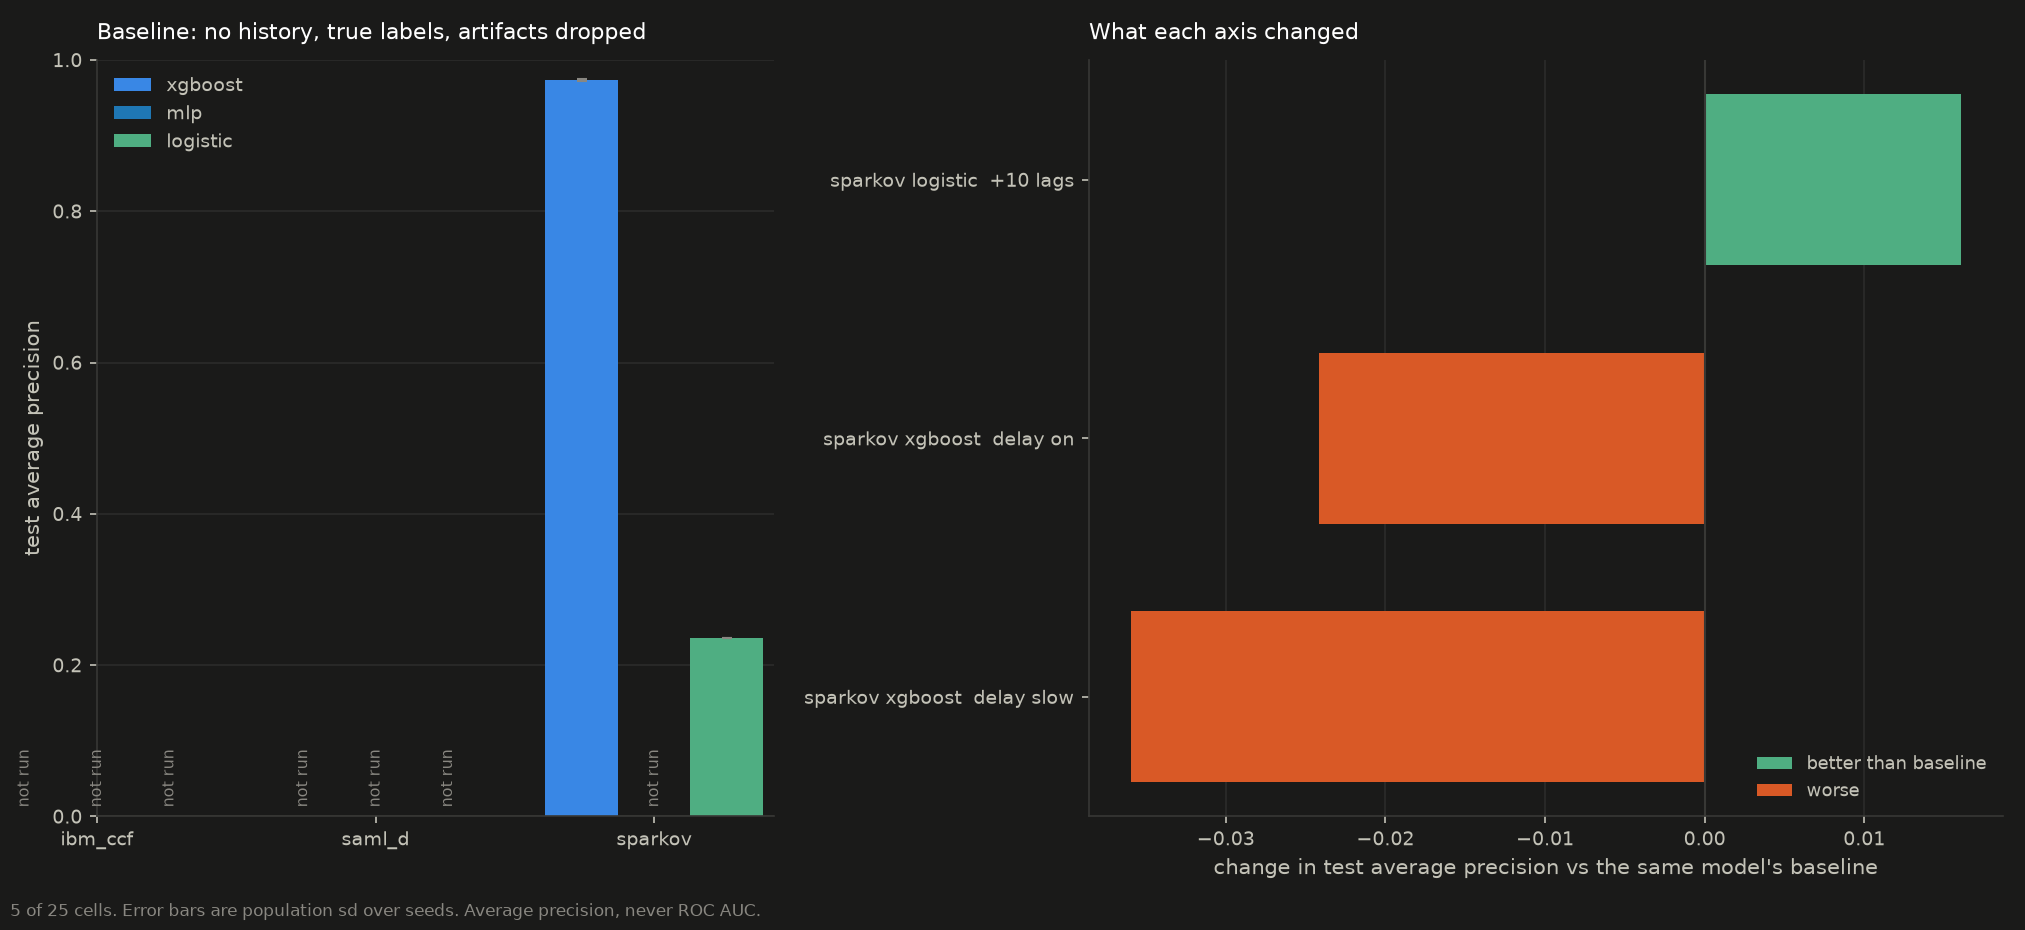
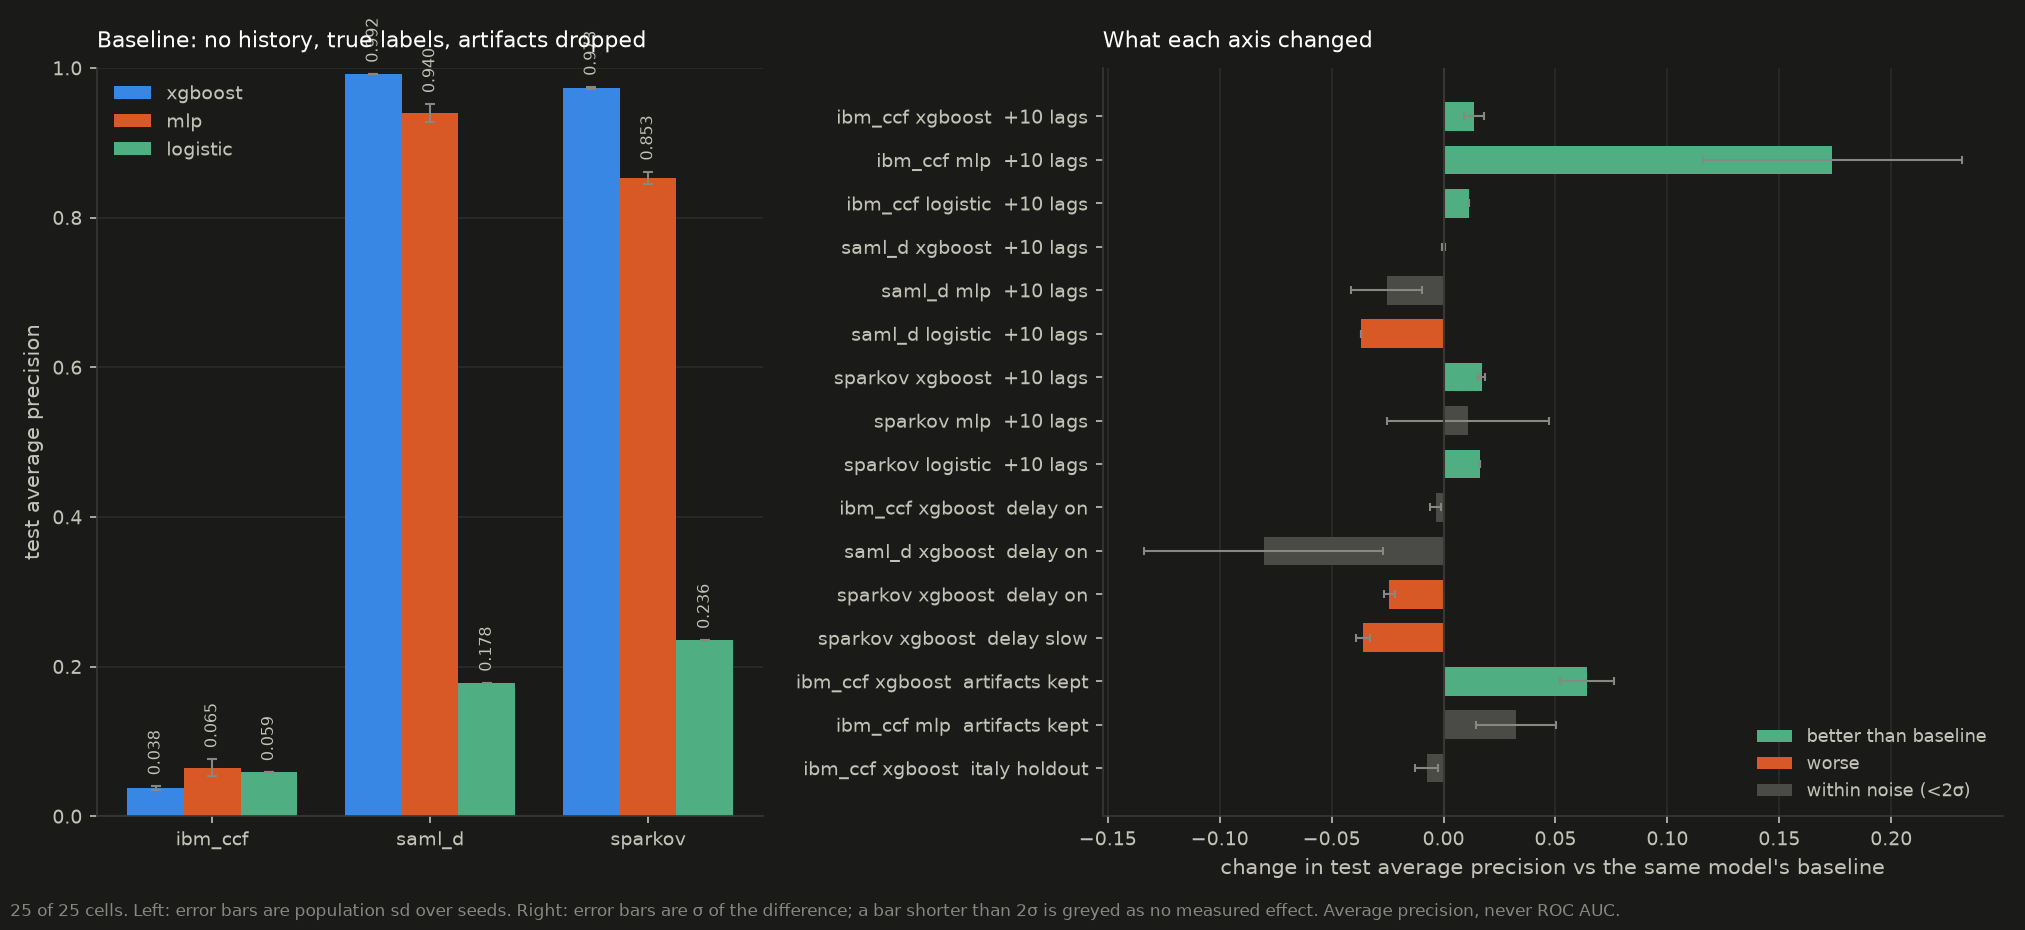
feat: the study is complete, and the figure greys what it cannot measure
The last three IBM CCF cells landed, so all 25 grid cells have results and
results/experiments.md no longer reports anything as not run.

plot_experiments.py now applies the same noise rule as the table: a delta bar
shorter than its own sigma is greyed rather than coloured by sign. Without it the
figure contradicted the table -- SAML-D's delay cell is the longest bar in the
panel and is 1.5 sigma, its seed ranges overlapping the baseline's. Baseline
values are printed on their bars because the three datasets differ by an order of
magnitude in difficulty.

diff --git a/scripts/figures/plot_experiments.py b/scripts/figures/plot_experiments.py
@@ -13,9 +13,17 @@ That is the quantity the study is actually about -- whether history, a label del
 the generator's geography moved anything -- and it is signed, so a diverging layout is
 the correct form and a zero line the correct reference.
 
-Error bars are population sd over seeds, not a confidence interval. With three seeds
-there is no distribution to be confident about; the bar shows the spread of the runs
-actually made, which is what tells you whether a delta is worth reading.
+**A bar is greyed when it is smaller than its own noise.** Colouring by sign alone made
+the figure contradict the table: SAML-D's delay cell is the longest bar in the panel and
+is 1.5 sigma, its seed ranges overlapping the baseline's. The error bar is sigma of the
+*difference* (the two variances add, since seeds are independent between runs), so bar
+length against error-bar length is the comparison a reader should make, and the grey
+saves them making it.
+
+Left-panel error bars are population sd over seeds, not a confidence interval: with three
+seeds there is no distribution to be confident about, only the spread of the runs made.
+Values are printed on the bars because the datasets differ by an order of magnitude in
+difficulty -- IBM CCF's bars are a few pixels tall beside SAML-D's.
 
 Colours are the dataviz reference palette's categorical slots, unchanged, plus its
 chrome inks. Both light and dark are emitted, each stepped for its own surface rather
@@ -37,20 +45,27 @@ from matplotlib.lines import Line2D
 from matplotlib.patches import Patch
 
 sys.path.insert(0, str(Path(__file__).resolve().parents[1]))
-from summarize import RESULTS_DIR, _baseline_index, flatten, load  # noqa: E402
+from summarize import (  # noqa: E402
+    NOISE_SIGMA,
+    RESULTS_DIR,
+    _baseline_index,
+    _sigma,
+    flatten,
+    load,
+)
 
 THEMES = {
     "light": dict(
         surface="#fcfcfb", ink="#0b0b0b", secondary="#52514e", muted="#898781",
         grid="#e1e0d9", axis="#c3c2b7",
         series=("#2a78d6", "#eb6834", "#3d9970"), positive="#3d9970",
-        negative="#eb6834",
+        negative="#eb6834", noise="#c3c2b7",
     ),
     "dark": dict(
         surface="#1a1a19", ink="#ffffff", secondary="#c3c2b7", muted="#898781",
         grid="#2c2c2a", axis="#383835",
         series=("#3987e5", "#d95926", "#4fae82"), positive="#4fae82",
-        negative="#d95926",
+        negative="#d95926", noise="#4a4a47",
     ),
 }
 
@@ -113,6 +128,14 @@ def draw_baselines(ax, rows: list[dict], colours: dict) -> None:
             error_kw={"ecolor": colours["muted"], "elinewidth": 1},
             label=model,
         )
+        # The three datasets differ by an order of magnitude in difficulty, so IBM CCF's
+        # bars are a few pixels tall next to SAML-D's. The number goes on the bar.
+        for offset, value, error in zip(offsets, values, errors):
+            ax.text(
+                offset, value + error + 0.015, f"{value:.3f}",
+                ha="center", va="bottom", rotation=90,
+                color=colours["secondary"], fontsize=7.5,
+            )
 
     ax.set_xticks(positions)
     ax.set_xticklabels(DATASETS)
@@ -141,7 +164,12 @@ def draw_deltas(ax, rows: list[dict], colours: dict) -> None:
         baseline = baselines.get((row["dataset"], row["model"]))
         if baseline is None:
             continue
-        entries.append((_delta_label(row), row["test_ap"] - baseline["test_ap"]))
+        difference = row["test_ap"] - baseline["test_ap"]
+        sigma = _sigma(row, baseline)
+        # Same rule the table uses. Without it the figure contradicts the table:
+        # saml_d's delay cell is the largest bar here and is 1.5 sigma.
+        real = sigma < 1e-12 or abs(difference) / sigma >= NOISE_SIGMA
+        entries.append((_delta_label(row), difference, sigma, real))
 
     if not entries:
         ax.text(
@@ -153,14 +181,21 @@ def draw_deltas(ax, rows: list[dict], colours: dict) -> None:
         return
 
     entries.reverse()  # highest row at the top
-    labels = [label for label, _ in entries]
-    values = [value for _, value in entries]
+    labels = [entry[0] for entry in entries]
+    values = [entry[1] for entry in entries]
+    sigmas = [entry[2] for entry in entries]
     positions = np.arange(len(entries))
     colour = [
-        colours["positive"] if value >= 0 else colours["negative"] for value in values
+        (colours["positive"] if value >= 0 else colours["negative"])
+        if real
+        else colours["noise"]
+        for _, value, _, real in entries
     ]
 
-    ax.barh(positions, values, 0.66, color=colour, edgecolor="none")
+    ax.barh(
+        positions, values, 0.66, xerr=sigmas, color=colour, edgecolor="none",
+        error_kw={"ecolor": colours["muted"], "elinewidth": 1, "capsize": 2},
+    )
     ax.axvline(0, color=colours["axis"], linewidth=1)
     ax.set_yticks(positions)
     ax.set_yticklabels(labels, fontsize=8.5)
@@ -175,6 +210,10 @@ def draw_deltas(ax, rows: list[dict], colours: dict) -> None:
         handles=[
             Patch(facecolor=colours["positive"], label="better than baseline"),
             Patch(facecolor=colours["negative"], label="worse"),
+            Patch(
+                facecolor=colours["noise"],
+                label=f"within noise (<{NOISE_SIGMA:.0f}σ)",
+            ),
         ],
         frameon=False, fontsize=8.5, loc="lower right",
         labelcolor=colours["secondary"],
@@ -196,8 +235,9 @@ def figure(rows: list[dict], theme: str) -> plt.Figure:
     ran = sum(row["ran"] for row in rows)
     fig.text(
         0.005, 0.015,
-        f"{ran} of {len(rows)} cells. Error bars are population sd over seeds. "
-        "Average precision, never ROC AUC.",
+        f"{ran} of {len(rows)} cells. Left: error bars are population sd over seeds. "
+        f"Right: error bars are σ of the difference; a bar shorter than {NOISE_SIGMA:.0f}σ "
+        "is greyed as no measured effect. Average precision, never ROC AUC.",
         color=colours["muted"], fontsize=8,
     )
     fig.tight_layout(rect=(0, 0.03, 1, 1))

diff --git a/results/experiments.md b/results/experiments.md
@@ -10,7 +10,13 @@ The baseline is every dataset × every model with no history, true labels, and t
 `artifact_` columns dropped. Each later group changes exactly one thing against it, so
 the column that matters is **Δ**, not the absolute score.
 
-**7 of 25 cells have results.** Missing cells are marked *not run*.
+Every Δ carries the noise scale of its own comparison: **σ** is the standard deviation of
+the *difference* between the two cells' means, so a Δ marked *within noise* is smaller
+than 2σ and should be read as "no measured effect", not as a small one. A bare
+Δ invites over-reading — IBM CCF's delay cell moves −0.0035, which looks like a 9% drop
+and is 1.5σ with seed ranges that overlap.
+
+**25 of 25 cells have results.**
 
 
 ## baseline
@@ -19,12 +25,12 @@ the column that matters is **Δ**, not the absolute score.
 
 | dataset | model | model | test AP | Δ vs baseline | test F1 | features | train rows | fit |
 |---|---|---|---:|---:|---:|---:|---:|---:|
-| `ibm_ccf` | xgboost | xgboost | *not run* | — | — | — | — | — |
-| `ibm_ccf` | mlp | mlp | *not run* | — | — | — | — | — |
-| `ibm_ccf` | logistic | logistic | *not run* | — | — | — | — | — |
-| `saml_d` | xgboost | xgboost | *not run* | — | — | — | — | — |
-| `saml_d` | mlp | mlp | *not run* | — | — | — | — | — |
-| `saml_d` | logistic | logistic | *not run* | — | — | — | — | — |
+| `ibm_ccf` | xgboost | xgboost | 0.0377 ± 0.0023 | — | 0.0519 | 74 | 18,993,372 | 32m |
+| `ibm_ccf` | mlp | mlp | 0.0651 ± 0.0112 | — | 0.1397 | 74 | 18,993,372 | 57m |
+| `ibm_ccf` | logistic | logistic | 0.0588 ± 0.0000 | — | 0.1455 | 74 | 18,993,372 | 10m |
+| `saml_d` | xgboost | xgboost | 0.9919 ± 0.0003 | — | 0.9868 | 60 | 7,603,881 | 12m |
+| `saml_d` | mlp | mlp | 0.9399 ± 0.0118 | — | 0.8812 | 60 | 7,603,881 | 38m |
+| `saml_d` | logistic | logistic | 0.1784 ± 0.0000 | — | 0.3588 | 60 | 7,603,881 | 12m |
 | `sparkov` | xgboost | xgboost | 0.9733 ± 0.0014 | — | 0.9308 | 46 | 1,481,915 | 2m |
 | `sparkov` | mlp | mlp | 0.8531 ± 0.0084 | — | 0.7922 | 46 | 1,481,915 | 7m |
 | `sparkov` | logistic | logistic | 0.2356 ± 0.0000 | — | 0.4039 | 46 | 1,481,915 | 1m |
@@ -36,17 +42,17 @@ the column that matters is **Δ**, not the absolute score.
 
 | dataset | lags | model | test AP | Δ vs baseline | test F1 | features | train rows | fit |
 |---|---|---|---:|---:|---:|---:|---:|---:|
-| `ibm_ccf` | 10 | xgboost | *not run* | — | — | — | — | — |
-| `ibm_ccf` | 10 | mlp | *not run* | — | — | — | — | — |
-| `ibm_ccf` | 10 | logistic | *not run* | — | — | — | — | — |
-| `saml_d` | 10 | xgboost | *not run* | — | — | — | — | — |
-| `saml_d` | 10 | mlp | *not run* | — | — | — | — | — |
-| `saml_d` | 10 | logistic | *not run* | — | — | — | — | — |
-| `sparkov` | 10 | xgboost | 0.9905 ± 0.0005 | +0.0171  (1.02×) | 0.9728 | 136 | 1,481,915 | 5m |
-| `sparkov` | 10 | mlp | *not run* | — | — | — | — | — |
-| `sparkov` | 10 | logistic | 0.2516 ± 0.0000 | +0.0161  (1.07×) | 0.4130 | 136 | 1,481,915 | 1m |
+| `ibm_ccf` | 10 | xgboost | 0.0512 ± 0.0039 | +0.0135  (1.36×, 3σ) | 0.0680 | 214 | 18,993,372 | 82m |
+| `ibm_ccf` | 10 | mlp | 0.2388 ± 0.0566 | +0.1737  (3.67×, 3σ) | 0.3143 | 214 | 18,993,372 | 84m |
+| `ibm_ccf` | 10 | logistic | 0.0700 ± 0.0000 | +0.0111  (deterministic) | 0.1569 | 214 | 18,993,372 | 20m |
+| `saml_d` | 10 | xgboost | 0.9918 ± 0.0006 | -0.0001  (0.2σ, within noise) | 0.9900 | 170 | 7,603,881 | 27m |
+| `saml_d` | 10 | mlp | 0.9145 ± 0.0107 | -0.0254  (1.6σ, within noise) | 0.8532 | 170 | 7,603,881 | 41m |
+| `saml_d` | 10 | logistic | 0.1413 ± 0.0000 | -0.0371  (deterministic) | 0.2925 | 170 | 7,603,881 | 24m |
+| `sparkov` | 10 | xgboost | 0.9905 ± 0.0005 | +0.0171  (1.02×, 11σ) | 0.9728 | 136 | 1,481,915 | 5m |
+| `sparkov` | 10 | mlp | 0.8640 ± 0.0351 | +0.0109  (0.3σ, within noise) | 0.8157 | 136 | 1,481,915 | 10m |
+| `sparkov` | 10 | logistic | 0.2516 ± 0.0000 | +0.0161  (deterministic) | 0.4130 | 136 | 1,481,915 | 1m |
 
-History helped in 2 of 2 cells. The retired flattened-window experiment measured lagged columns earning 13% of a tree's total gain; each record's `top_features` carries the same number for these runs.
+History helped in 6 of 9 cells. The retired flattened-window experiment measured lagged columns earning 13% of a tree's total gain; each record's `top_features` carries the same number for these runs.
 
 
 ## delay
@@ -55,12 +61,12 @@ History helped in 2 of 2 cells. The retired flattened-window experiment measured
 
 | dataset | delay | model | test AP | Δ vs baseline | test F1 | features | train rows | fit |
 |---|---|---|---:|---:|---:|---:|---:|---:|
-| `ibm_ccf` | on | xgboost | *not run* | — | — | — | — | — |
-| `saml_d` | on | xgboost | *not run* | — | — | — | — | — |
-| `sparkov` | on | xgboost | 0.9492 ± 0.0021 | -0.0242  (0.98×) | 0.8874 | 46 | 1,481,915 | 2m |
-| `sparkov` | slow | xgboost | 0.9374 ± 0.0026 | -0.0360  (0.96×) | 0.8579 | 46 | 1,481,915 | 2m |
+| `ibm_ccf` | on | xgboost | 0.0342 ± 0.0012 | -0.0035  (1.4σ, within noise) | 0.0490 | 74 | 18,993,372 | 31m |
+| `saml_d` | on | xgboost | 0.9115 ± 0.0535 | -0.0804  (1.5σ, within noise) | 0.8433 | 60 | 7,603,881 | 12m |
+| `sparkov` | on | xgboost | 0.9492 ± 0.0021 | -0.0242  (0.98×, 10σ) | 0.8874 | 46 | 1,481,915 | 2m |
+| `sparkov` | slow | xgboost | 0.9374 ± 0.0026 | -0.0360  (0.96×, 12σ) | 0.8579 | 46 | 1,481,915 | 2m |
 
-Train fraud labels hidden by the delay — `sparkov` on: 132, `sparkov` slow: 509. Val and test always use true labels, so a drop here is the cost of learning from labels that arrive late, not a change in what is scored.
+Train fraud labels hidden by the delay — `ibm_ccf` on: 11, `saml_d` on: 1,545, `sparkov` on: 132, `sparkov` slow: 509. Val and test always use true labels, so a drop here is the cost of learning from labels that arrive late, not a change in what is scored.
 
 
 ## artifacts
@@ -69,6 +75,17 @@ Train fraud labels hidden by the delay — `sparkov` on: 132, `sparkov` slow: 50
 
 | dataset | condition | model | test AP | Δ vs baseline | test F1 | features | train rows | fit |
 |---|---|---|---:|---:|---:|---:|---:|---:|
-| `ibm_ccf` | artifacts kept | xgboost | *not run* | — | — | — | — | — |
-| `ibm_ccf` | artifacts kept | mlp | *not run* | — | — | — | — | — |
-| `ibm_ccf` | italy holdout | xgboost | *not run* | — | — | — | — | — |
+| `ibm_ccf` | artifacts kept | xgboost | 0.1018 ± 0.0117 | +0.0641  (2.70×, 5σ) | 0.1437 | 82 | 18,993,372 | 36m |
+| `ibm_ccf` | artifacts kept | mlp | 0.0974 ± 0.0137 | +0.0323  (1.8σ, within noise) | 0.1824 | 82 | 18,993,372 | 75m |
+| `ibm_ccf` | italy holdout | xgboost | 0.0302 ± 0.0046 | -0.0076  (1.5σ, within noise) | 0.0226 | 74 | 13,350,884 | 23m |
+
+Both rows ask the same question. Keeping the `artifact_` columns hands the model the merchant country directly; the Italy holdout leaves them in but moves the split so train predates the first Italy fraud.
+
+
+## The trivial rule
+
+A **ceiling, not a floor.** `artifact_merchant_state == "Italy"` needs no fitting, and IBM CCF's train half holds zero Italy frauds — so the rule imports knowledge no train-only model could have. It bounds what the evaluation labels encode. A model scoring far below it has not necessarily failed; the labels may simply be a country name.
+
+| rule test AP | best model test AP on `ibm_ccf` |
+|---:|---:|
+| 0.8134 | 0.2388 |
